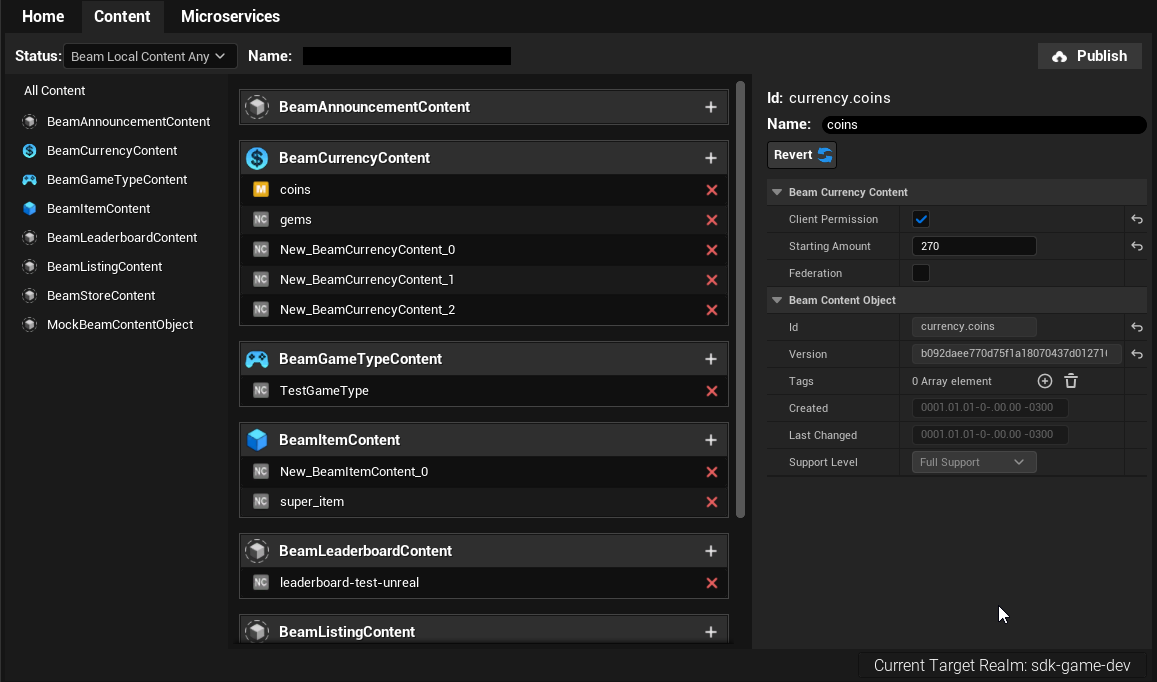
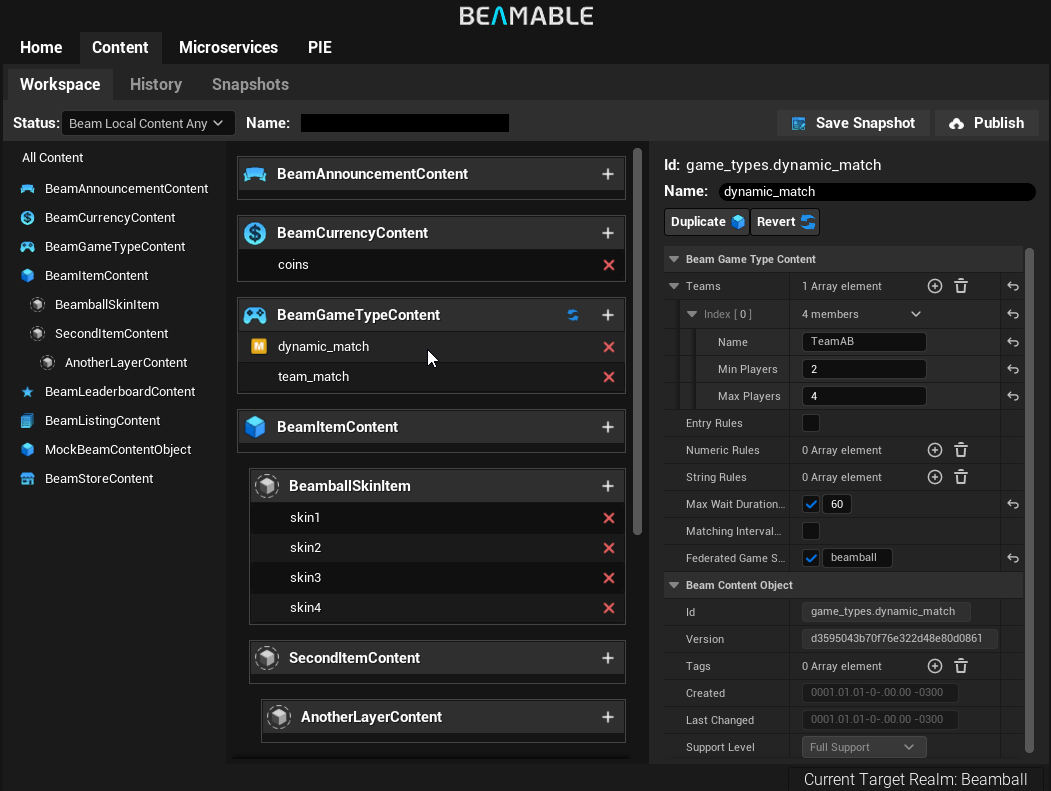
Add Content Snapshot Docs

diff --git a/docs/unreal/user-reference/beamable-services/content.md b/docs/unreal/user-reference/beamable-services/content.md
@@ -70,8 +70,6 @@ To publish content to a realm simply use the Publish button.
 
 	**Publishing** means deleting all the contents of the Dropbox folder and replacing them with your local files.  
 
-
-
 ### Understanding Content Auto-Sync Rules
 It is often desirable to have designers in a realm that is stable and allow them to work in `Blueprints`, `Beamable Content` and Unreal `Data Asset` in the same realm plus branch combination. 
 
@@ -114,7 +112,7 @@ To achieve this --- just create a new realm for the development of that feature.
 
 	If you are a team that prefer to use feature flags over feature branches, you can still make the realm. Just write the code behind the feature flag to expect to be running in a realm whose Microservices, configuration and content match the feature realm's one.
 
-Once your work is done, you can configure the stable realm with whatever new configuration is required and then use the CLI or the Portal to move the content over to the new realm. 
+Once your work is done, you can configure the stable realm with whatever new configuration is required and then use the CLI or the Portal to move the content over to the new realm.
 
 ## Custom Content Types
 
@@ -198,6 +196,43 @@ The SDK also supports live content updates (if you publish content while the gam
 Accessing content at runtime is fairly simple:
 
 ![content-accessing.png](../../../media/imgs/content-accessing.png)
+
+## Content Snapshots
+The content snapshot system allows you to save the state of your local content at any given time and restore it later.
+
+![content-snapshots-window.png](../../../media/imgs/content-snapshots-window.png)
+
+This is useful for a couple of workflows:
+
+- You can use it to save the state of your local content before trying out risky changes and then restore it if you don't like the changes.
+- You can save the current state of your local content and share it with your teammates so they can load it in their machines and have the same local content state as you.
+- You can save the content state of your current realm and apply it to another realm.
+
+Content snapshots can be local or shared between users. The local ones are kept in the `.bleamable\contentSnapshots` folder and the shared ones in the .beamable\shared\contentSnapshot folder of the project, so it can be versionated on git.
+
+### Creating Content Snapshots
+To create a content snapshot, simply click on the button in the top right corner of the content window. This will create a snapshot of your current local content state. It then will be added to the list of snapshots in the Snapshots Window.
+
+![content_snapshot_create.png](../../../media/imgs/content_snapshot_create.png)
+
+### Applying Content Snapshots
+To apply the content of a snapshot to your current workspace, simply select the snapshot in the list and click on the `Apply Snapshot` button
+
+![content-apply-snapshot.png](../../../media/imgs/content-apply-snapshot.png)
+
+Aditionally you can also select the following options:
+
+- Delete Preset: deletes the snapshot after applying it.
+- Additive: if checked, the snapshot will be applied on top of your current local content state only adding the new and modified content. If unchecked, the snapshot will replace your current local content state.
+
+### Sharing Content Snapshots
+Shared snapshots are stored in the `.beamable\shared\contentSnapshot` folder, so you can share them with your teammates by sharing that file through git or any other way you like. To save a Local Snapshot as Shared simply click on the `Save as Template` button. 
+
+The Shared Snapshots are identified in the list with a different (ornge) icon.
+
+![content-shared-snapshot.png](../../../media/imgs/content-shared-snapshot.png)
+
+Notice that everytime you publish content to the realm it will automatically update the shared snapshot called `LatestPublished` to match the content that was just published. This means that you can always share with your teammates the latest published content by sharing that snapshot.
 
 ## Baking Content
 In a couple of cases, you might want to bake content to distribute it with your build:
